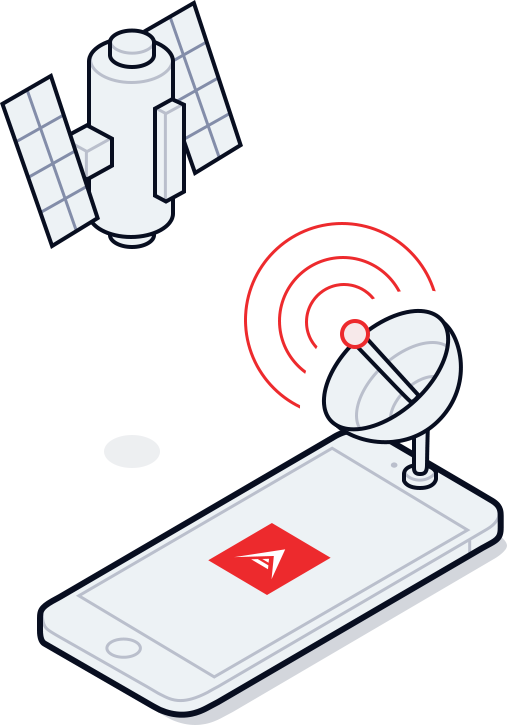
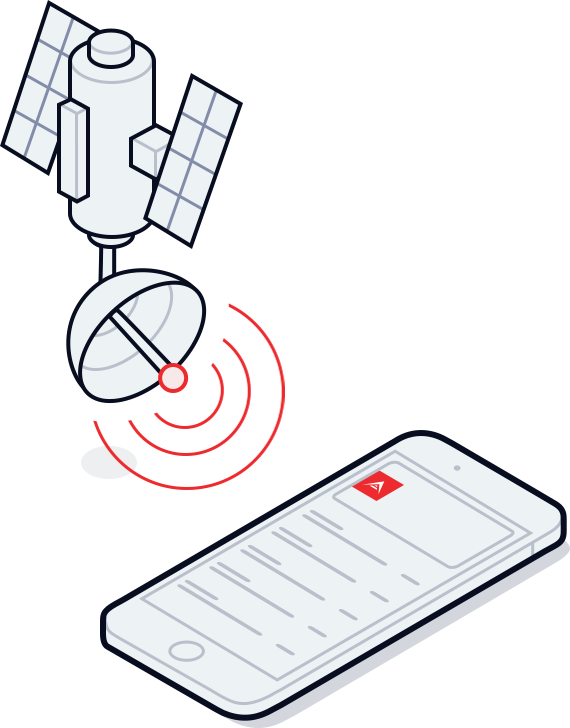
update(intro): change the 'fast and easy' image

diff --git a/src/pages/intro/intro.html b/src/pages/intro/intro.html
@@ -3,13 +3,13 @@
     <ion-slide *ngFor="let slide of slides">
       <ion-grid>
         <ion-row hideWhen="landscape">
-          <ion-col align-self-center>
+          <ion-col align-self-end>
             <img [src]="slide.image" class="slide-image">
           </ion-col>
         </ion-row>
         <ion-row>
           <ion-col align-self-center>
-            <h2 class="slide-title">{{ slide.title }}</h2>
+            <h3 class="slide-title">{{ slide.title }}</h3>
             <p>{{ slide.description }}</p>
           </ion-col>
         </ion-row>
@@ -18,11 +18,11 @@
   </ion-slides>
 </ion-content>
 
-<ion-footer>
+<ion-footer no-shadow>
   <ion-grid>
     <ion-row>
       <ion-col col-3>
-        <button ion-button clear (click)="startApp()" [disabled]="!showSkip">{{ 'SKIP' | translate }}</button>
+        <button ion-button clear (click)="startApp()" [disabled]="!showSkip">{{ 'SKIP' | translate | uppercase }}</button>
       </ion-col>
       <ion-col col-6>
         <ion-grid fixed class="slide-pagination full-height" text-center>
@@ -34,8 +34,8 @@
         </ion-grid>
       </ion-col>
       <ion-col col-3>
-        <button ion-button clear (click)="goNext()" *ngIf="showSkip">{{ 'NEXT' | translate }}</button>
-        <button ion-button clear (click)="startApp()" *ngIf="!showSkip">{{ 'DONE' | translate }}</button>
+        <button ion-button clear (click)="goNext()" *ngIf="showSkip">{{ 'NEXT' | translate | uppercase }}</button>
+        <button ion-button clear (click)="startApp()" *ngIf="!showSkip">{{ 'DONE' | translate | uppercase }}</button>
       </ion-col>
     </ion-row>
   </ion-grid>

diff --git a/src/app/app.html b/src/app/app.html
@@ -1,6 +1,6 @@
 <ion-menu [content]="content" id="sidebarMenu">
 
-  <ion-header padding>
+  <ion-header padding no-shadow>
     <img src="./assets/img/logo-no-shadow.png" width="70" height="70">
     <h4>{{ profile?.name }}</h4>
     <p>{{ network?.name }}</p>
@@ -31,7 +31,7 @@
     </ion-list>
   </ion-content>
 
-  <ion-footer>
+  <ion-footer no-shadow>
     <ion-list inset no-lines>
       <button menuClose ion-item (click)="logout()">
         <ion-icon name="log-out" item-start></ion-icon>

diff --git a/src/pages/intro/intro.scss b/src/pages/intro/intro.scss
@@ -7,6 +7,12 @@ page-intro {
     flex: auto 1!important;
   }
 
+  .footer {
+    .button {
+      font-weight: 500
+    }
+  }
+
   .slide-pagination {
     max-width: 100px;
 
@@ -22,8 +28,8 @@ page-intro {
     }
 
     .col.active span {
-      border-color: #ed2a2d;
-      background-color: #ed2a2d;
+      border-color: #345ff2;
+      background-color: #345ff2;
     }
   }
 

diff --git a/src/pages/intro/intro.ts b/src/pages/intro/intro.ts
@@ -43,7 +43,7 @@ export class IntroPage {
         },
         {
           title: translation['INTRO_PAGE.FAST_EASY'],
-          image: 'assets/img/light/intro/security.png',
+          image: 'assets/img/light/intro/fast_easy.png',
           description: translation['INTRO_PAGE.TEXT_3'],
         },
       ];
